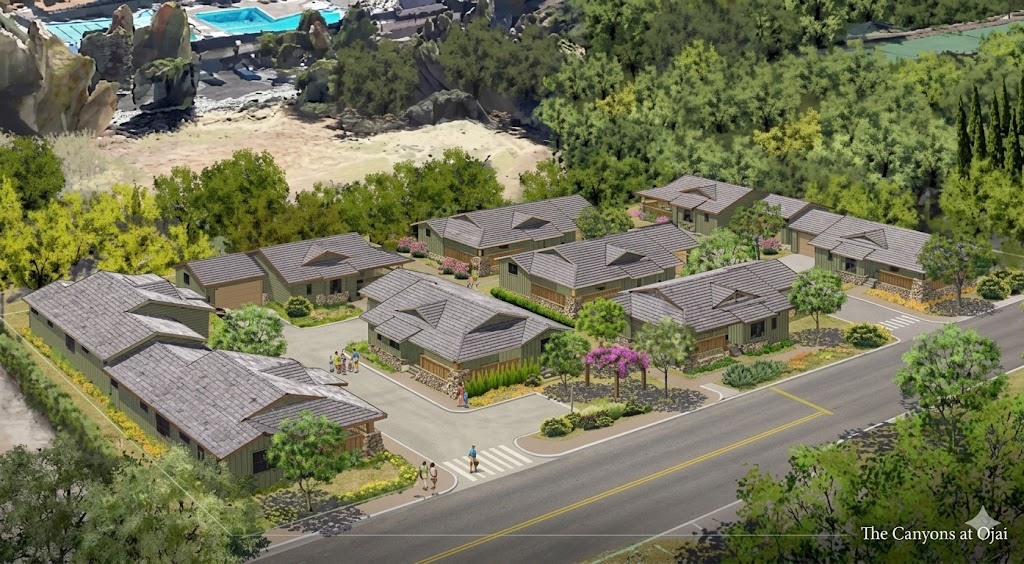
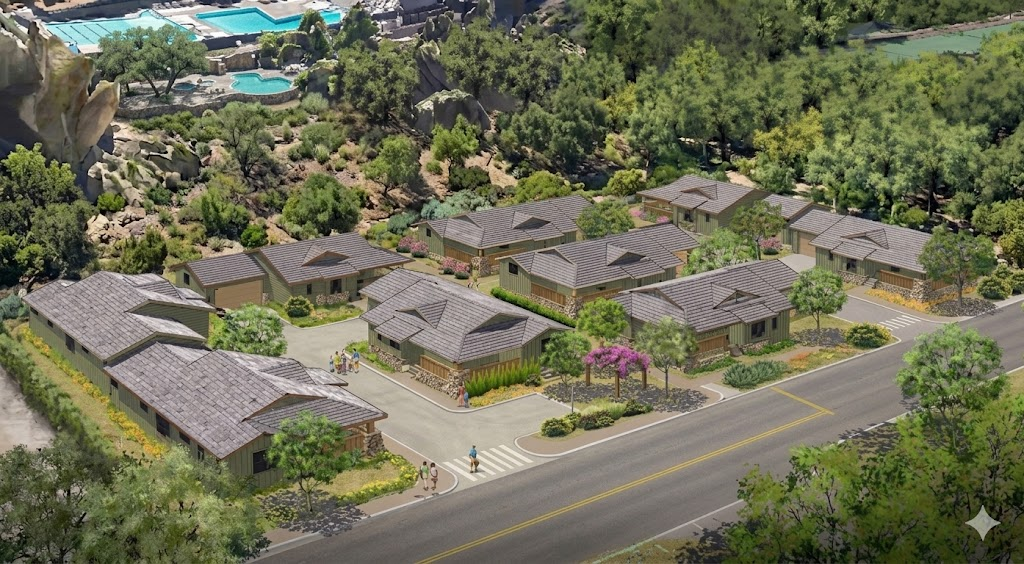
Refresh cover image; lighter gradient; add Conceptual Rendering corner label

diff --git a/index.html b/index.html
@@ -200,10 +200,20 @@
         <span>Confidential</span>
       </div>
 
-      <!-- Bottom band: project info + address (slim, low-opacity) -->
+      <!-- Conceptual Rendering corner label -->
+      <div style="position:absolute; right: 110px; bottom: 240px;
+                  font-family: var(--mono); font-size: 16px; letter-spacing: 0.22em; text-transform: uppercase;
+                  color: rgba(255,255,255,0.92);
+                  background: rgba(14,31,51,0.55);
+                  padding: 8px 14px;
+                  border-left: 2px solid var(--gold);">
+        Conceptual Rendering
+      </div>
+
+      <!-- Bottom band: project info + address (very slim, faint gradient) -->
       <div style="position:absolute; left:0; right:0; bottom:0;
-                  background: linear-gradient(to top, rgba(14,31,51,0.82), rgba(14,31,51,0.55) 70%, rgba(14,31,51,0));
-                  padding: 48px 110px 44px; color: var(--paper);">
+                  background: linear-gradient(to top, rgba(14,31,51,0.70), rgba(14,31,51,0.30) 60%, rgba(14,31,51,0));
+                  padding: 32px 110px 36px; color: var(--paper);">
         <div style="font-family: var(--mono); color: var(--accent-soft); letter-spacing: 0.24em; font-size: 20px; text-transform:uppercase; margin-bottom: 18px;">
           601 Pearl Street · Ojai, California
         </div>